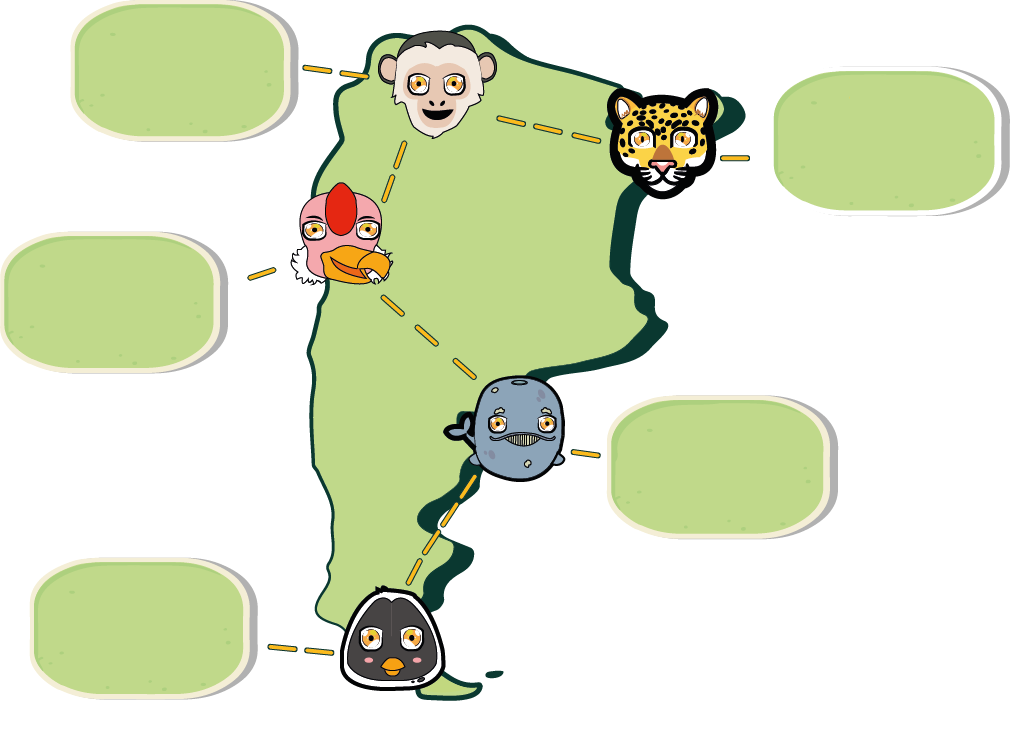
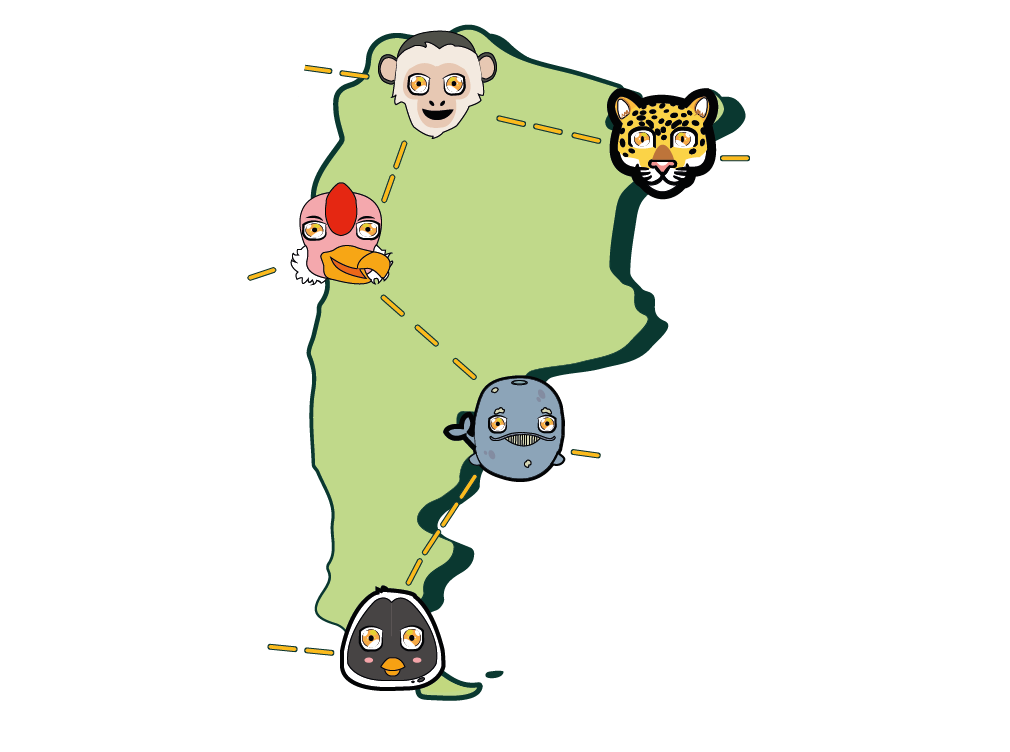
botones mapa

diff --git a/src/scenes/nivel1.ts b/src/scenes/nivel1.ts
@@ -1,32 +1,34 @@
 import Phaser from 'phaser'
 export default class nivel_1 extends Phaser.Scene
 {
+  private cursors!: Phaser.Types.Input.Keyboard.CursorKeys
+
   constructor(){
     super('nivelYaguarete')
   }
   init()
   {
-    //PARA PUSH
+    this.cursors = this.input.keyboard.createCursorKeys()  
   }
 
   preload(){
-    this.load.tilemapTiledJSON('mapa_nivel1', 'assets/Nivel1/nivel_Yaguarete.json')
-    this.load.image('nivel1Fondoo','assets/Nivel1/nivel1_fondo.png')
-    this.load.image('nivel1Sueloo','assets/Nivel1/nivel1_suelo.png')
-    this.load.image('nivel1Carnee','assets/Nivel1/nivel1_carne.png')
-    this.load.image('nivel1Trampaa','assets/Nivel1/nivel1_trampa.png')
+    this.load.tilemapTiledJSON('mapa_nivel1', '/assets/Nivel1/nivel_Yaguarete.json')
+    this.load.image('nivel1Fondoo','/assets/Nivel1/nivel1_suelo.png')
+    this.load.image('nivel1Sueloo','/assets/Nivel1/nivel1_suelo.png')
+    this.load.image('nivel1Carnee','/assets/Nivel1/nivel1_carne.png')
+    this.load.image('nivel1Trampaa','/assets/Nivel1/nivel1_trampa.png')
 
-    this.load.spritesheet('nivel1Yaguarete', '/public/assets/Nivel1/nivel1_yaguarete.png', 
+    this.load.spritesheet('nivel1Yaguarete', '/assets/Nivel1/nivel1_yaguarete.png', 
     {frameWidth:538 , frameHeight:300 });
-
-    this.cursors = this.input.keyboard.createCursorKeys()
+    
+   
   }
 
   create(){
     /* Tiled Nivel 1 */
 /*     addTilesetImage(tilesetName [, key] 
   [, tileWidth] [, tileHeight] [, tileMargin] [, tileSpacing] [, gid])
- */    const mapa_nivel1 = this.make.tilemap({key: "mapa_nivel1"});
+ */ const mapa_nivel1 = this.make.tilemap({key: 'mapa_nivel1'});
     const fondo_nivel1_tiled = mapa_nivel1.addTilesetImage('nivel1_fondo', 'nivel1Fondoo');
     const suelo_nivel1_tiled = mapa_nivel1.addTilesetImage('nivel1_suelo', 'nivel1Sueloo');
     const carne_nivel1_tiled = mapa_nivel1.addTilesetImage('nivel1_carne', 'nivel1Carnee');
@@ -39,12 +41,12 @@ export default class nivel_1 extends Phaser.Scene
     const carne_nivel1 = mapa_nivel1.createLayer('nivel1Alimento', carne_nivel1_tiled, 0, 0);
     const trampa_nivel1 = mapa_nivel1.createLayer('nivel1Trampa', trampa_nivel1_tiled, 0, 0);
   
-    if (cursors =! undefined){
+    /* if (cursors =! undefined){
       cursors = this.input.keyboard.createCursorKeys();
-      /* teclaR = this.input.keyboard.addKey('R');
+      teclaR = this.input.keyboard.addKey('R');
       teclaP = this.input.keyboard.addKey('P');
-      teclaF = this.input.keyboard.addKey('F'); */
-    }
+      teclaF = this.input.keyboard.addKey('F');
+    } */
 
     this.anims.create({
       key: 'correr',
@@ -59,7 +61,7 @@ export default class nivel_1 extends Phaser.Scene
       frameRate: 10
     });
 
-    var yaguarete_nivel1 = this.matter.add.sprite(150, 200, 'nivel1Yaguarete');
+    const yaguarete_nivel1 = this.matter.add.sprite(150, 200, 'nivel1Yaguarete');
     yaguarete_nivel1.setScale(0.3)
     /* yaguarete_nivel1.setVelocityX(200) *//* 
     yaguarete_nivel1.playAnimation('correr') */
@@ -97,7 +99,7 @@ export default class nivel_1 extends Phaser.Scene
     {
       this.scene.start('menuMapa');
     } */
-/* 
+
     if (cursors.right.isDown)
     {
       yaguarete_nivel1.setVelocityX(200);
@@ -107,7 +109,7 @@ export default class nivel_1 extends Phaser.Scene
     if ((cursors.up.isDown) && yaguarete_nivel1.body.blocked.down)
     {     
       yaguarete_nivel1.setVelocityY(-300);           
-    } */
+    }
   }
 
   /* juntarComidaNivel1 (yaguarete_nivel1, carne_nivel1){

diff --git a/src/scenes/mapa.ts b/src/scenes/mapa.ts
@@ -6,6 +6,7 @@ export default class mapa extends Phaser.Scene
   }
 
   preload(){
+    this.load.image('botonNivel', 'assets/Mapa/botonMapa.png');
   }
 
   create(){
@@ -16,8 +17,26 @@ export default class mapa extends Phaser.Scene
     .on('pointerdown', () => this.scene.start('menuPpal'));
 
     const buttonMusica = this.add.image(180, 80, 'botonMusica').setScale(0.7)
+    
+    const buttonNivel1 = this.add.image(1130,170, 'botonNivel').setScale(0.25)
     .setInteractive()
     .on('pointerdown', () => this.scene.start('nivelYaguarete'))
+
+    const buttonNivel2 = this.add.image(420,80, 'botonNivel').setScale(0.25)
+    /* .setInteractive()
+    .on('pointerdown', () => this.scene start('nivelMono')) */
+
+    const buttonNivel3 = this.add.image(360,300, 'botonNivel').setScale(0.25)
+  /*   .setInteractive()
+    .on('pointerdown', () => this.scene start('nivelCondor')) */
+
+    const buttonNivel4 = this.add.image(980,470, 'botonNivel').setScale(0.25)
+   /*  .setInteractive()
+    .on('pointerdown', () => this.scene start('nivelBallena')) */
+
+    const buttonNivel5 = this.add.image(380,650, 'botonNivel').setScale(0.25)
+    /* .setInteractive()
+    .on('pointerdown', () => this.scene start('nivelPinguino')) */
   }
 
   update(){
